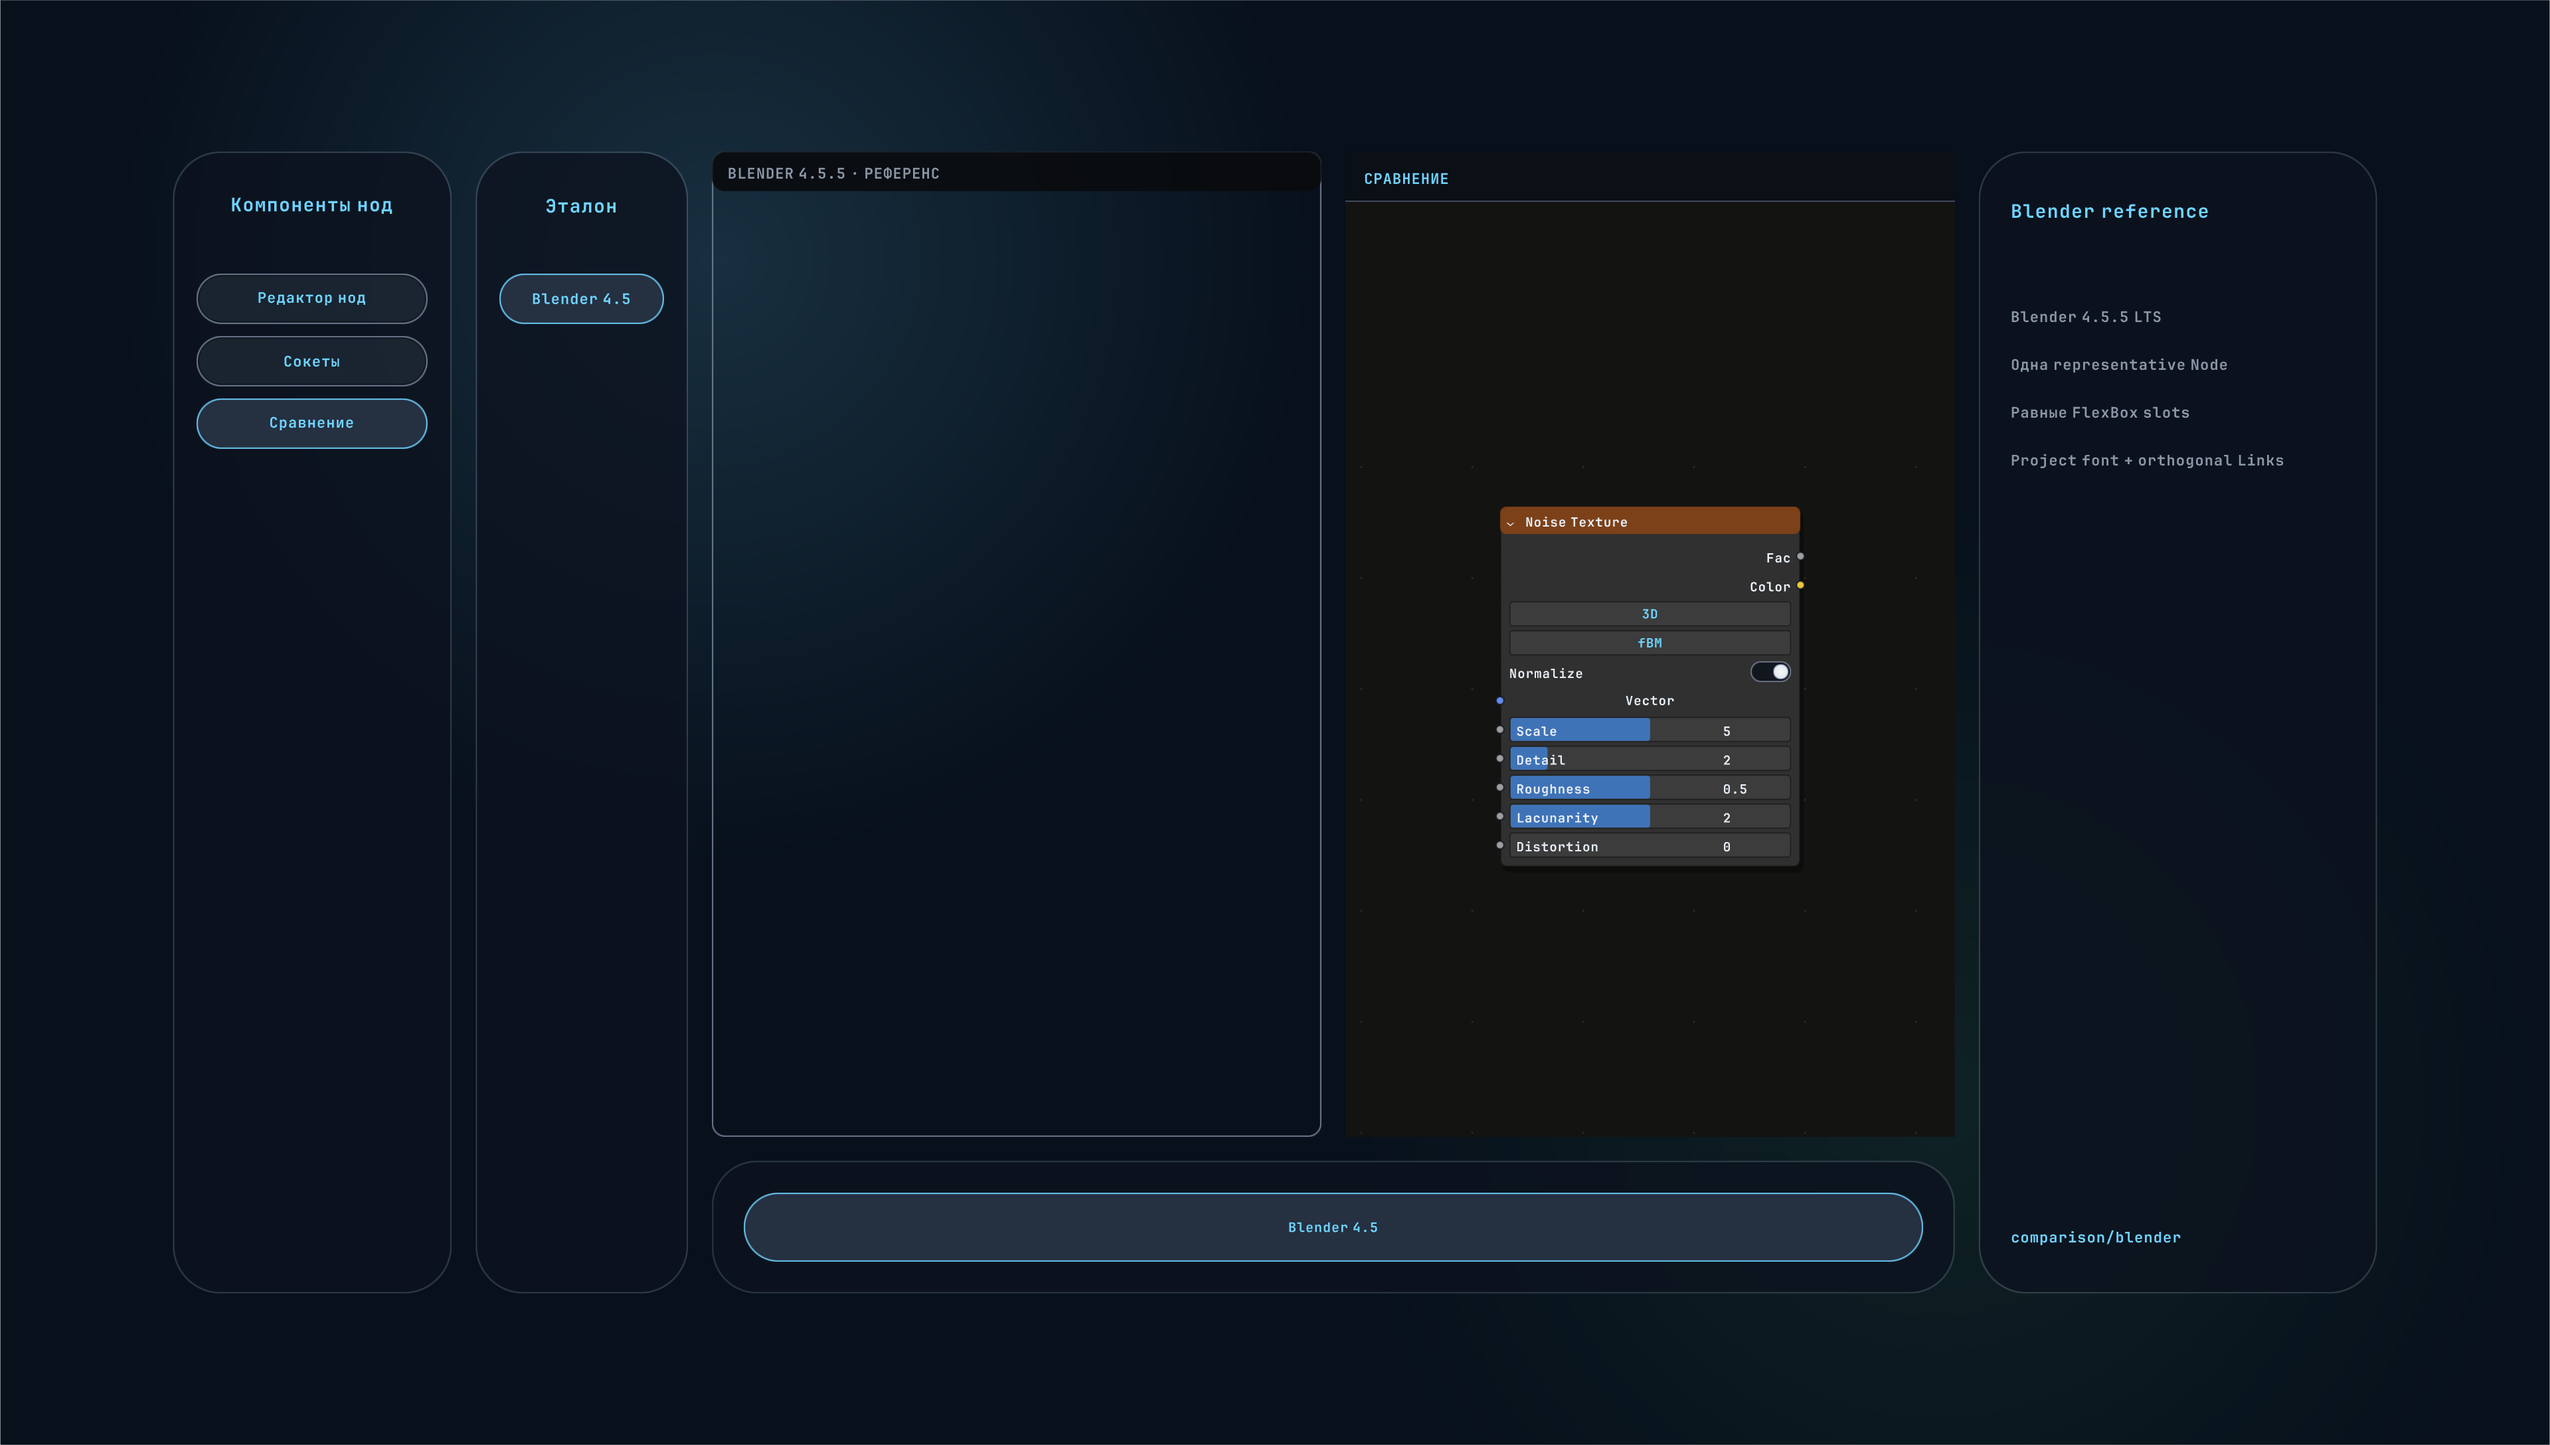
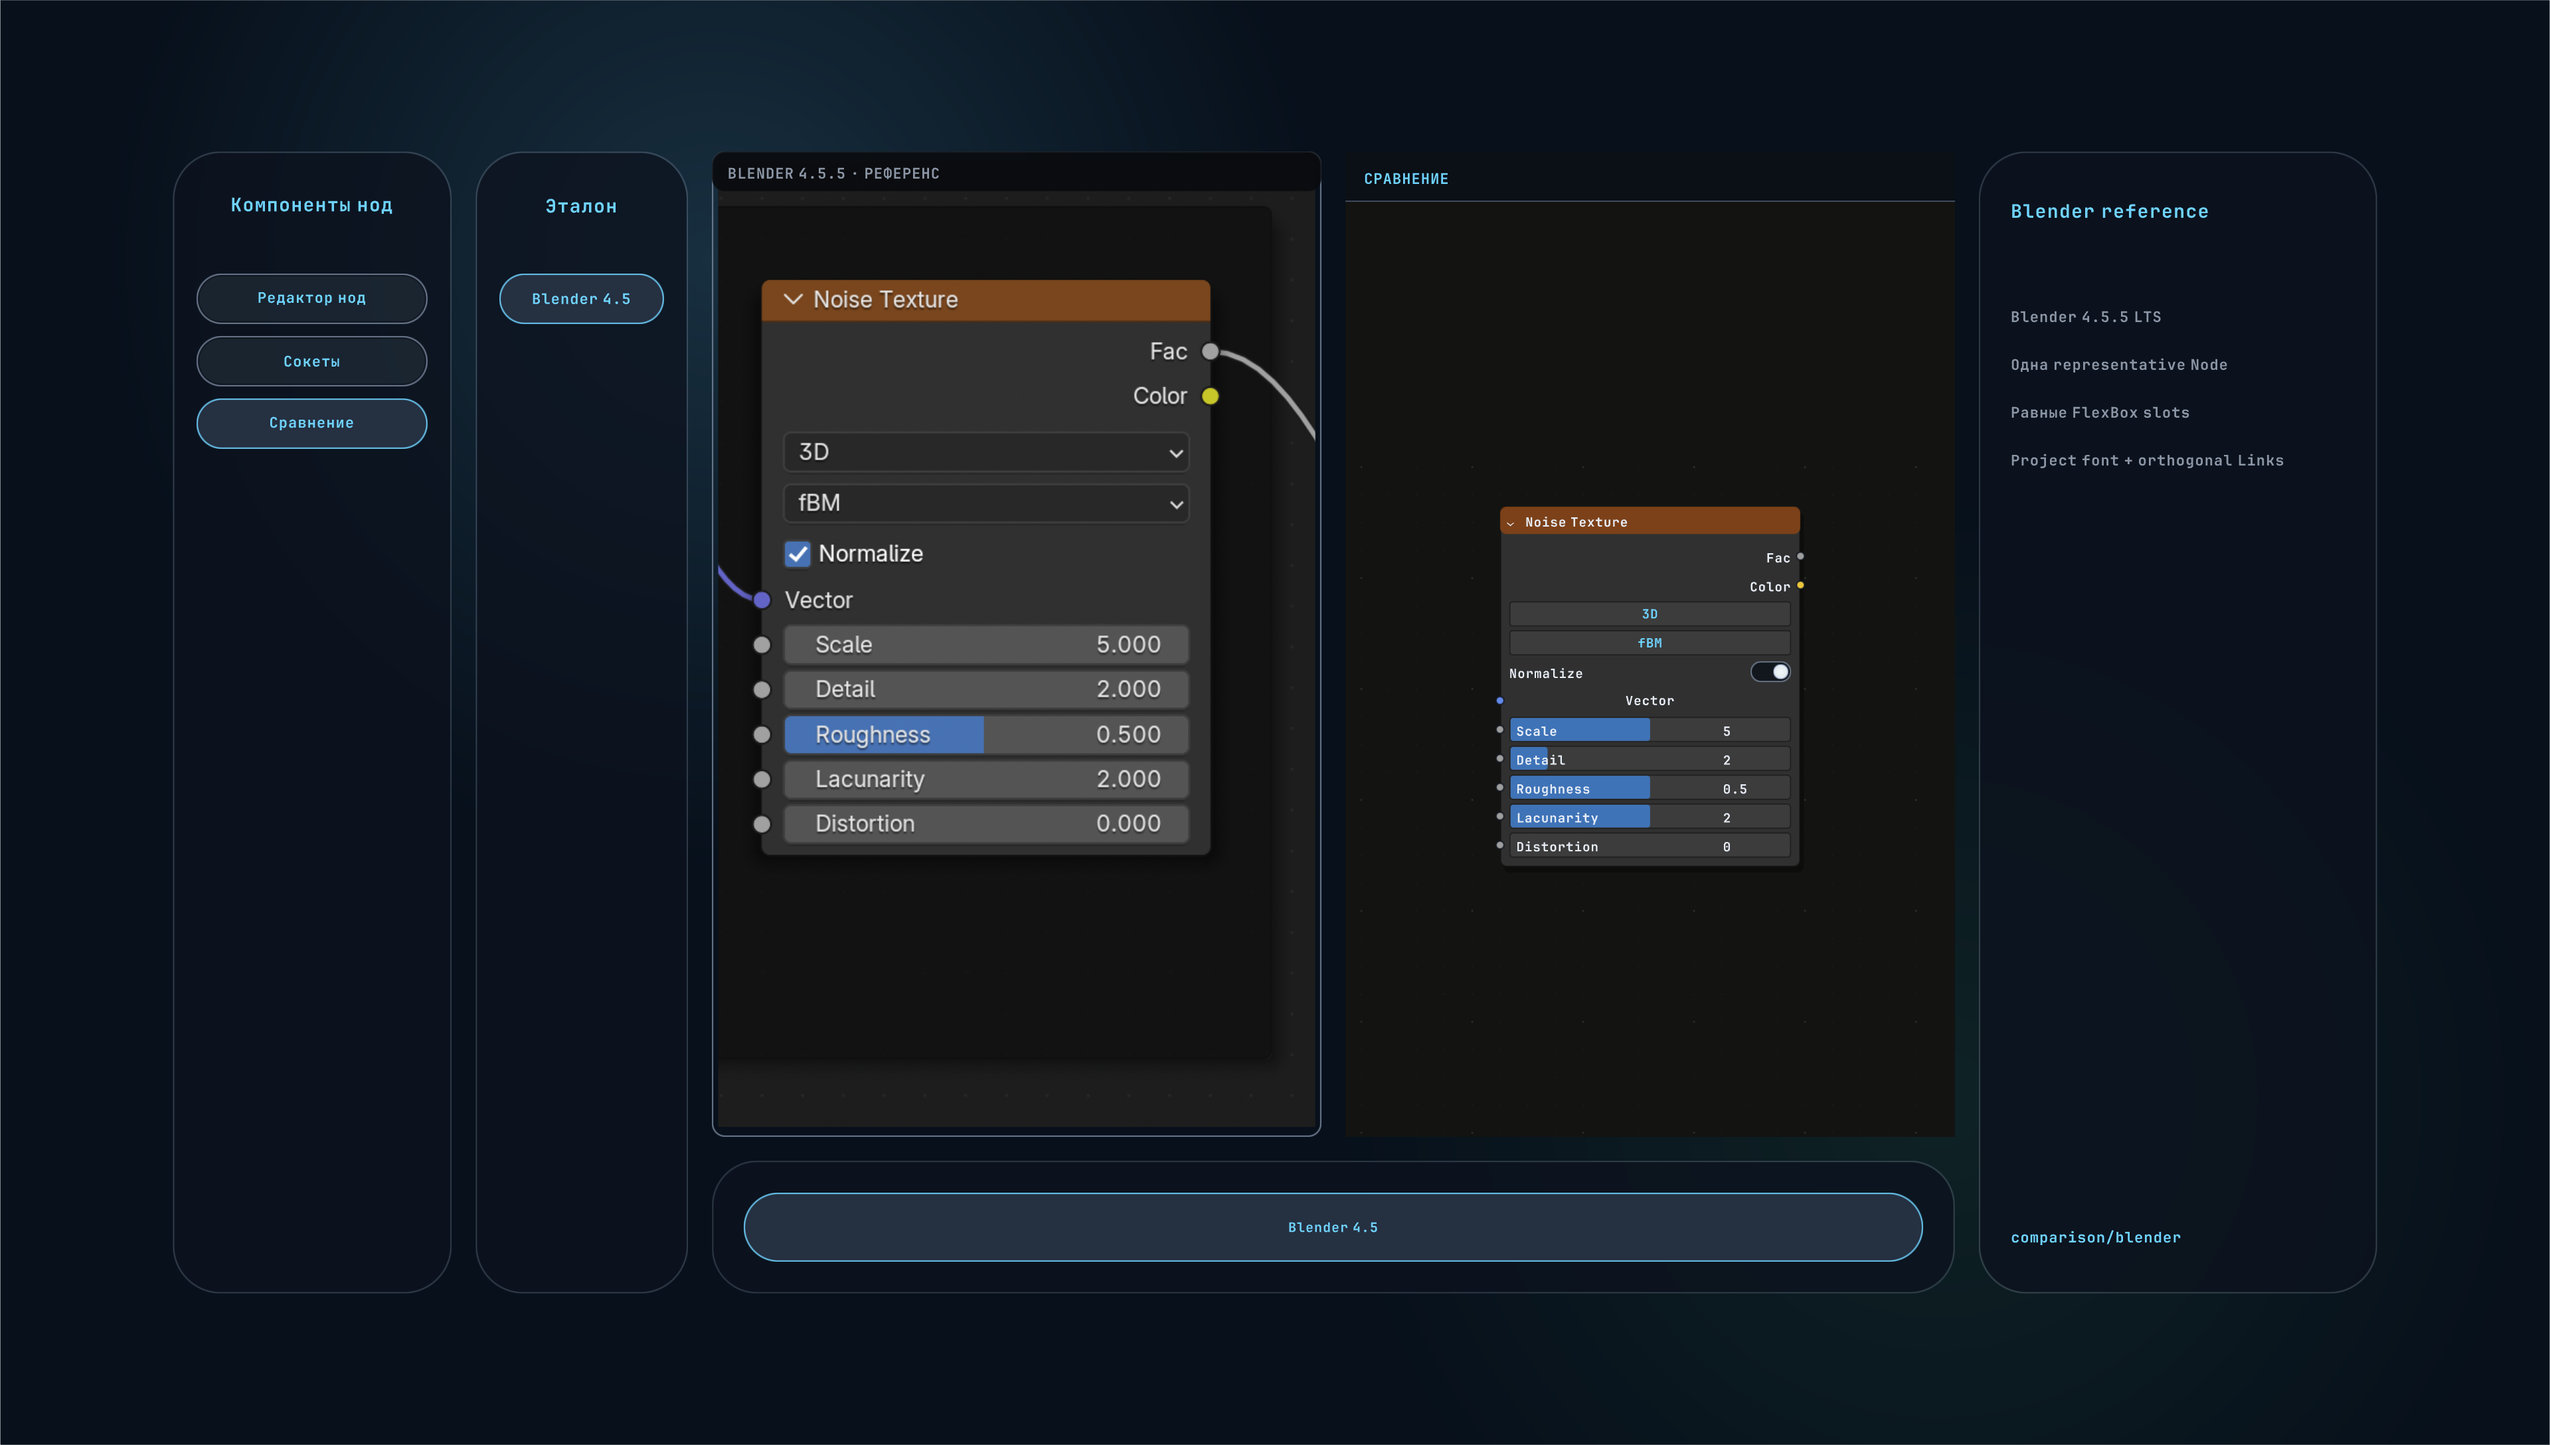
fix(nodes): await Blender reference materialization

Changed region(s): [[0.2812, 0.125, 0.5, 0.5938]]

diff --git a/pkg/nodes/ui/playground/client.ts b/pkg/nodes/ui/playground/client.ts
@@ -1,3 +1,4 @@
+import {TextureLoader} from "@metafor/engine"
 import {UiRuntime} from "@ui/elements"
 import {
   PlaygroundBackdropSurface,
@@ -19,6 +20,7 @@ import {
 import {NodeEditor} from "../node-editor.ts"
 import {createCatalogNodeTree, createNoiseComparisonTree} from "./fixtures.ts"
 import {planNodeComponentPlaygroundFrames} from "./layout.ts"
+import {waitForReferenceFrame} from "./reference-readiness.ts"
 import {createPlaygroundRetainedObserver, type PlaygroundRetainedObserver} from "./retained-observer.ts"
 import {
   NODE_PLAYGROUND_CATALOG,
@@ -30,15 +32,17 @@ import {
   nodePlaygroundSections,
   type NodePlaygroundRoute,
 } from "./routes.ts"
-import {BlenderReferenceSurface, SocketCatalogSurface} from "./surfaces.ts"
+import {BLENDER_REFERENCE_SRC, BlenderReferenceSurface, SocketCatalogSurface} from "./surfaces.ts"
 
 const canvas = document.getElementById("node-component-canvas")
 if (!(canvas instanceof HTMLCanvasElement)) throw new Error("Canvas node component playground не найден")
 
 document.documentElement.dataset.nodeComponentPlayground = "starting"
+document.documentElement.dataset.nodeReferenceReady = "loading"
 
 try {
   let retainedObserver: PlaygroundRetainedObserver | null = null
+  let preparingReference = true
   const runtime = await UiRuntime.create(canvas, {
     fontUrl: "/JetBrainsMono-Bold.ttf",
     virtualDisplay: {initial: "near", surfaceDisplay: true, grid: false},
@@ -99,7 +103,11 @@ try {
   })
   editor.setTree(tree)
 
-  const frames = (w: number, h: number) => planNodeComponentPlaygroundFrames(w, h, router.current)
+  const frames = (w: number, h: number) => {
+    const planned = planNodeComponentPlaygroundFrames(w, h, router.current)
+    if (!preparingReference || planned.reference.visible !== false) return planned
+    return {...planned, reference: {x: 0, y: 0, w: 1, h: 1}}
+  }
   runtime.addSurface(backdrop, ({w, h}) => frames(w, h).backdrop)
   runtime.addSurface(catalog, ({w, h}) => frames(w, h).catalog)
   runtime.addSurface(sections, ({w, h}) => frames(w, h).section)
@@ -139,15 +147,42 @@ try {
     runtime.handleResize()
     retainedObserver?.publishAfterFrame()
   }).observe(canvas)
-  document.documentElement.dataset.nodeComponentPlayground = "ready"
   document.documentElement.dataset.socketKinds = String(BLENDER_SOCKET_KINDS.length)
   document.documentElement.dataset.socketShapes = String(BLENDER_SOCKET_SHAPES.length)
   document.documentElement.dataset.nodeCount = String(tree.nodes.length)
   document.documentElement.dataset.linkCount = String(tree.links.length)
   document.documentElement.dataset.comparisonNodeCount = String(comparisonTree.nodes.length)
   document.documentElement.dataset.comparisonLinkCount = String(comparisonTree.links.length)
+  renderPlaygroundFrame()
+  void waitForReferenceFrame({
+    readStatus: () => {
+      const status = TextureLoader.status(BLENDER_REFERENCE_SRC)
+      document.documentElement.dataset.nodeReferenceTexture = status
+      return status
+    },
+    renderNextFrame: async () => {
+      preparingReference = false
+      renderPlaygroundFrame()
+    },
+  }).then(() => {
+    document.documentElement.dataset.nodeReferenceReady = "ready"
+    document.documentElement.dataset.nodeComponentPlayground = "ready"
+  }).catch((error: unknown) => {
+    publishPlaygroundError(error)
+  })
+
+  function renderPlaygroundFrame(): void {
+    runtime.relayout()
+    runtime.space.updateWorldMatrix()
+    runtime.renderer.renderFrame(runtime.space, runtime.hud, runtime.viewPoint)
+  }
 } catch (error) {
+  publishPlaygroundError(error)
+  throw error
+}
+
+function publishPlaygroundError(error: unknown): void {
+  document.documentElement.dataset.nodeReferenceReady = "error"
   document.documentElement.dataset.nodeComponentPlayground = "error"
   document.documentElement.dataset.nodeComponentError = error instanceof Error ? error.message : String(error)
-  throw error
 }

diff --git a/pkg/nodes/ui/playground/reference-readiness.test.ts b/pkg/nodes/ui/playground/reference-readiness.test.ts
@@ -1,0 +1,56 @@
+import {describe, expect, test} from "bun:test"
+import {waitForReferenceFrame, type ReferenceTextureStatus} from "./reference-readiness.ts"
+
+describe("Blender reference readiness", () => {
+  test("publishes only after TextureLoader reaches ready and a later frame renders", async () => {
+    const statuses: ReferenceTextureStatus[] = ["idle", "loading", "ready"]
+    const events: string[] = []
+
+    await waitForReferenceFrame({
+      readStatus: () => {
+        const status = statuses.shift() ?? "ready"
+        events.push(`status:${status}`)
+        return status
+      },
+      wait: async () => { events.push("poll") },
+      renderNextFrame: async () => { events.push("frame") },
+    })
+
+    expect(events).toEqual([
+      "status:idle",
+      "poll",
+      "status:loading",
+      "poll",
+      "status:ready",
+      "frame",
+    ])
+  })
+
+  test("fails within the bounded wait without rendering a false-ready frame", async () => {
+    let now = 0
+    let frames = 0
+
+    await expect(waitForReferenceFrame({
+      readStatus: () => "loading",
+      timeoutMs: 10,
+      pollMs: 5,
+      now: () => now,
+      wait: async (durationMs) => { now += durationMs },
+      renderNextFrame: async () => { frames++ },
+    })).rejects.toThrow("timed out after 10ms")
+    expect(frames).toBe(0)
+  })
+
+  test("fails immediately when TextureLoader reports a failed texture", async () => {
+    let waited = false
+    let frames = 0
+
+    await expect(waitForReferenceFrame({
+      readStatus: () => "failed",
+      wait: async () => { waited = true },
+      renderNextFrame: async () => { frames++ },
+    })).rejects.toThrow("failed to materialize")
+    expect(waited).toBeFalse()
+    expect(frames).toBe(0)
+  })
+})

diff --git a/pkg/nodes/ui/playground/playground.test.ts b/pkg/nodes/ui/playground/playground.test.ts
@@ -120,6 +120,22 @@ describe("Blender-like Node component playground", () => {
     expect(source).not.toContain("FieldCatalogSurface")
   })
 
+  test("publishes global and comparison readiness only after the reference texture frame", async () => {
+    const client = await Bun.file(join(playgroundRoot, "client.ts")).text()
+    const textureWait = client.indexOf("void waitForReferenceFrame")
+    const referenceReady = client.indexOf('dataset.nodeReferenceReady = "ready"')
+    const globalReady = client.indexOf('dataset.nodeComponentPlayground = "ready"')
+
+    expect(textureWait).toBeGreaterThan(-1)
+    expect(referenceReady).toBeGreaterThan(textureWait)
+    expect(globalReady).toBeGreaterThan(referenceReady)
+    expect(client).toContain("TextureLoader.status(BLENDER_REFERENCE_SRC)")
+    expect(client).toContain("runtime.renderer.renderFrame(runtime.space, runtime.hud, runtime.viewPoint)")
+    expect(client).toContain('dataset.nodeReferenceReady = "error"')
+    expect(client).toContain("planned.reference.visible !== false")
+    expect(client).toContain("reference: {x: 0, y: 0, w: 1, h: 1}")
+  })
+
   test("keeps retained observation dev-only and routes exact browser evidence through UI dev", async () => {
     const client = await Bun.file(join(playgroundRoot, "client.ts")).text()
     const observer = await Bun.file(join(playgroundRoot, "retained-observer.ts")).text()

diff --git a/pkg/nodes/ui/playground/reference-readiness.ts b/pkg/nodes/ui/playground/reference-readiness.ts
@@ -1,0 +1,29 @@
+export type ReferenceTextureStatus = "idle" | "loading" | "ready" | "failed"
+
+export type ReferenceReadinessOptions = Readonly<{
+  readStatus(): ReferenceTextureStatus
+  renderNextFrame(): Promise<void>
+  timeoutMs?: number
+  pollMs?: number
+  now?: () => number
+  wait?: (durationMs: number) => Promise<void>
+}>
+
+/** Waits for GPU texture materialization and one later presentation frame. */
+export async function waitForReferenceFrame(options: ReferenceReadinessOptions): Promise<void> {
+  const timeoutMs = Math.max(1, options.timeoutMs ?? 10_000)
+  const pollMs = Math.max(1, options.pollMs ?? 16)
+  const now = options.now ?? Date.now
+  const wait = options.wait ?? ((durationMs: number) => new Promise<void>((resolve) => setTimeout(resolve, durationMs)))
+  const deadline = now() + timeoutMs
+
+  while (true) {
+    const status = options.readStatus()
+    if (status === "ready") break
+    if (status === "failed") throw new Error("Blender reference texture failed to materialize")
+    if (now() >= deadline) throw new Error(`Blender reference texture timed out after ${timeoutMs}ms`)
+    await wait(pollMs)
+  }
+
+  await options.renderNextFrame()
+}

diff --git a/pkg/nodes/ui/playground/surfaces.ts b/pkg/nodes/ui/playground/surfaces.ts
@@ -10,12 +10,13 @@ import {
 import {SOCKET_CATALOG} from "./fixtures.ts"
 
 export type SocketCatalogMode = "types" | "shapes" | "states"
+export const BLENDER_REFERENCE_SRC = "/ui-dev/blender-4.5.5-reference.png"
 
 export class BlenderReferenceSurface extends UiSurface {
   constructor() {
     super({bgColor: null, borderColor: null})
     this.setBackgroundImage({
-      src: "/ui-dev/blender-4.5.5-reference.png",
+      src: BLENDER_REFERENCE_SRC,
       fit: "cover",
       opacity: 1,
       scale: 0.98,

diff --git a/project/artifacts/UI-004/README.md b/project/artifacts/UI-004/README.md
@@ -79,14 +79,19 @@
 
 * Источник: background exact-CDP canvas route `/comparison/blender` через
   `UI dev`.
+* Версия проекта: UI-004.13 working tree на integration baseline
+  `f9f3ace2d6110388db3a3fb3fc29f10e5559c248`.
 * Ожидание: UI-owned Blender reference загружен рядом ровно с одной live
   representative Node; full scene и Socket catalog не примешаны.
-* Фактическое наблюдение: desktop показывает загруженный Blender 4.5.5
-  reference и одну live Noise Texture Node в равных slots; full scene/Socket
-  catalog отсутствуют, console 0, native metrics восстановлены.
+* Фактическое наблюдение: TextureLoader, comparison marker и global marker
+  достигли `ready` только перед capture; desktop отчётливо показывает
+  оригинальную Blender 4.5.5 Noise Texture Node и одну live Noise Texture Node
+  в равных slots. Portrait/landscape сохраняют compact contract с одной live
+  Node; console 0, horizontal overflow отсутствует, native `1920×1088 @2`
+  восстановлен.
 * Чувствительные сведения: нет.
 * Контрольные суммы: desktop
[4 lines of base64/hex data omitted]
 
